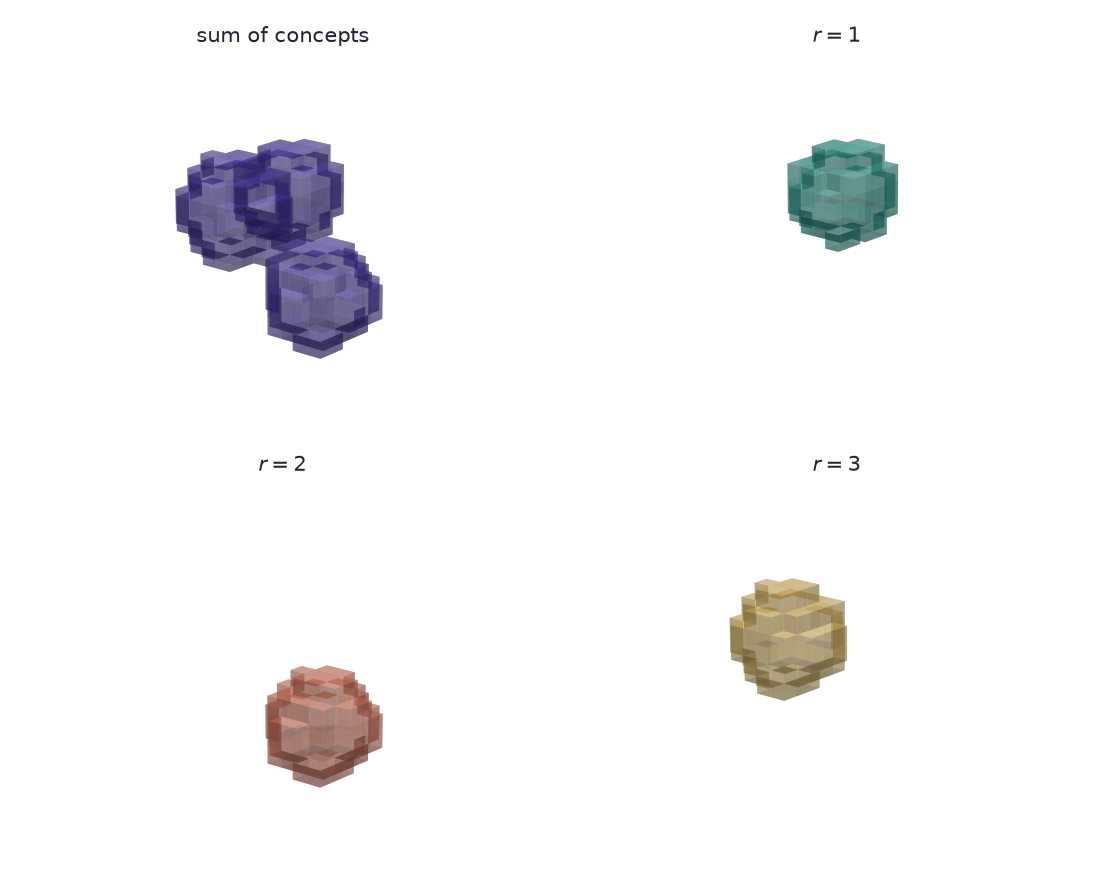
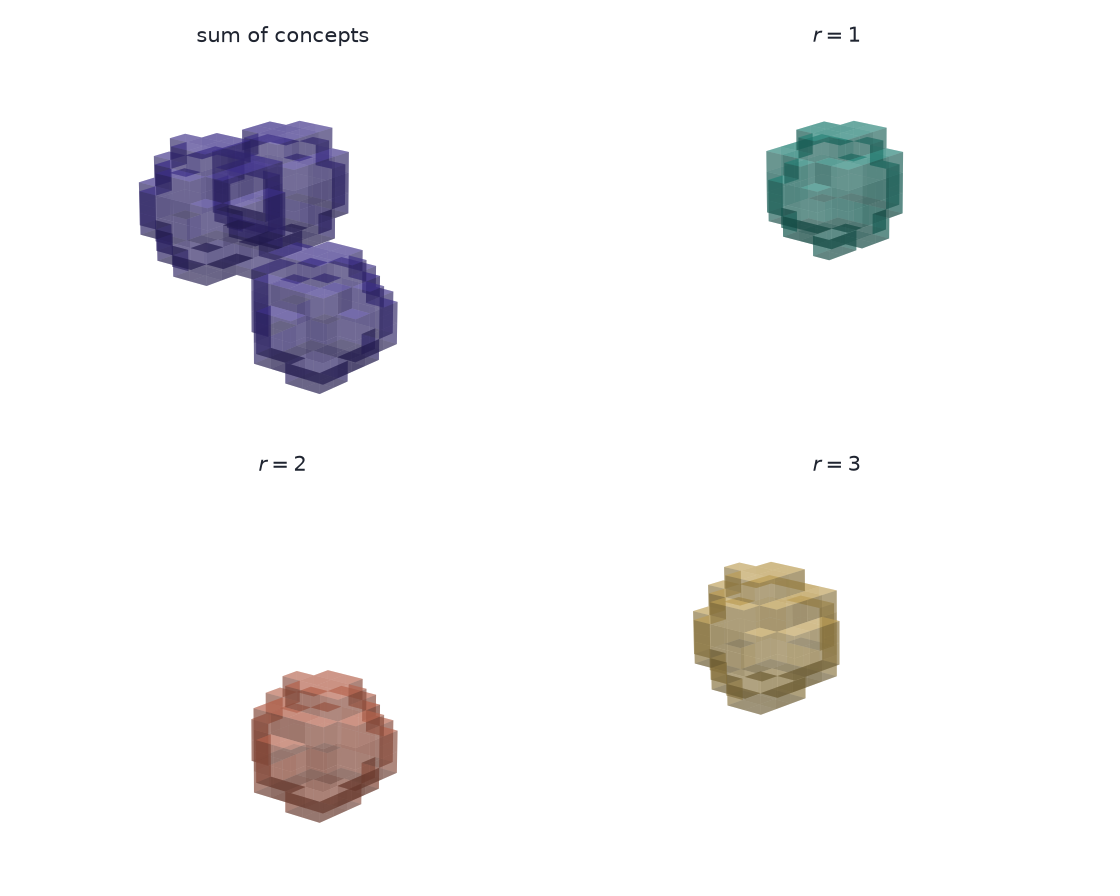
fix(posts): make the CP/Tucker figures match their captions
The review on #232 caught the Tucker still inflating its core by 1.6x
per mode, so a 4x4x3 core of a 12-cube rendered at roughly 1:7 against
the caption's 1:36 — understating the one quantity that figure exists
to show. It also caught two captions arguing with their own images and
a CP storage count that dropped the lambda weights.

- Draw the core at true scale, and measure the mode labels from the box
  that was drawn rather than from the axes limits, so a small core keeps
  its labels on its own edges.
- Frame the voxel panels on the lit cells and raise the 3D zoom; the
  blobs were about 150 px in a 1120 px image.
- Say the CP weights are scaled into a factor, not stored.
- Stop the film caption denying the shrink the animation performs, and
  stop the Figure data bullet claiming corners the caption contradicts.
- Say where Kruskal's condition actually bites: generic factors have
  full k-rank, so for R <= min(I,J,K) it holds for every R >= 2.
- Promote Figure data out of "The two arrays" — it covers all five
  images — and drop the constraint bullet that restated it.

diff --git a/docs/posts/cp-or-tucker/index.html b/docs/posts/cp-or-tucker/index.html
@@ -191,24 +191,22 @@ window.Quarto = {
     <h2 id="toc-title">On this page</h2>
    
   <ul>
-  <li><a href="#the-two-arrays" id="toc-the-two-arrays" class="nav-link active" data-scroll-target="#the-two-arrays"><span class="header-section-number">1</span> The two arrays</a>
+  <li><a href="#the-two-arrays" id="toc-the-two-arrays" class="nav-link active" data-scroll-target="#the-two-arrays"><span class="header-section-number">1</span> The two arrays</a></li>
+  <li><a href="#figure-data" id="toc-figure-data" class="nav-link" data-scroll-target="#figure-data"><span class="header-section-number">2</span> Figure data</a></li>
+  <li><a href="#notation" id="toc-notation" class="nav-link" data-scroll-target="#notation"><span class="header-section-number">3</span> Notation</a></li>
+  <li><a href="#cp" id="toc-cp" class="nav-link" data-scroll-target="#cp"><span class="header-section-number">4</span> CP</a>
   <ul class="collapse">
-  <li><a href="#figure-data" id="toc-figure-data" class="nav-link" data-scroll-target="#figure-data"><span class="header-section-number">1.1</span> Figure data</a></li>
+  <li><a href="#uniqueness" id="toc-uniqueness" class="nav-link" data-scroll-target="#uniqueness"><span class="header-section-number">4.1</span> Uniqueness</a></li>
+  <li><a href="#storage" id="toc-storage" class="nav-link" data-scroll-target="#storage"><span class="header-section-number">4.2</span> Storage</a></li>
   </ul></li>
-  <li><a href="#notation" id="toc-notation" class="nav-link" data-scroll-target="#notation"><span class="header-section-number">2</span> Notation</a></li>
-  <li><a href="#cp" id="toc-cp" class="nav-link" data-scroll-target="#cp"><span class="header-section-number">3</span> CP</a>
+  <li><a href="#tucker" id="toc-tucker" class="nav-link" data-scroll-target="#tucker"><span class="header-section-number">5</span> Tucker</a>
   <ul class="collapse">
-  <li><a href="#uniqueness" id="toc-uniqueness" class="nav-link" data-scroll-target="#uniqueness"><span class="header-section-number">3.1</span> Uniqueness</a></li>
-  <li><a href="#storage" id="toc-storage" class="nav-link" data-scroll-target="#storage"><span class="header-section-number">3.2</span> Storage</a></li>
+  <li><a href="#rotational-freedom" id="toc-rotational-freedom" class="nav-link" data-scroll-target="#rotational-freedom"><span class="header-section-number">5.1</span> Rotational freedom</a></li>
+  <li><a href="#storage-1" id="toc-storage-1" class="nav-link" data-scroll-target="#storage-1"><span class="header-section-number">5.2</span> Storage</a></li>
   </ul></li>
-  <li><a href="#tucker" id="toc-tucker" class="nav-link" data-scroll-target="#tucker"><span class="header-section-number">4</span> Tucker</a>
-  <ul class="collapse">
-  <li><a href="#rotational-freedom" id="toc-rotational-freedom" class="nav-link" data-scroll-target="#rotational-freedom"><span class="header-section-number">4.1</span> Rotational freedom</a></li>
-  <li><a href="#storage-1" id="toc-storage-1" class="nav-link" data-scroll-target="#storage-1"><span class="header-section-number">4.2</span> Storage</a></li>
-  </ul></li>
-  <li><a href="#choosing" id="toc-choosing" class="nav-link" data-scroll-target="#choosing"><span class="header-section-number">5</span> Choosing</a></li>
-  <li><a href="#constraints" id="toc-constraints" class="nav-link" data-scroll-target="#constraints"><span class="header-section-number">6</span> Constraints</a></li>
-  <li><a href="#references" id="toc-references" class="nav-link" data-scroll-target="#references"><span class="header-section-number">7</span> References</a></li>
+  <li><a href="#choosing" id="toc-choosing" class="nav-link" data-scroll-target="#choosing"><span class="header-section-number">6</span> Choosing</a></li>
+  <li><a href="#constraints" id="toc-constraints" class="nav-link" data-scroll-target="#constraints"><span class="header-section-number">7</span> Constraints</a></li>
+  <li><a href="#references" id="toc-references" class="nav-link" data-scroll-target="#references"><span class="header-section-number">8</span> References</a></li>
   </ul>
 <div class="toc-actions"><ul><li><a href="https://github.com/project-delphi/ml-blog/edit/main/posts/cp-or-tucker/index.qmd" class="toc-action"><i class="bi bi-github"></i>Edit this page</a></li></ul></div></nav>
     </div>
@@ -239,21 +237,21 @@ window.Quarto = {
 <figcaption>A three-way array. Each axis is a mode, and no two modes are interchangeable.</figcaption>
 </figure>
 </div>
-<section id="figure-data" class="level3" data-number="1.1">
-<h3 data-number="1.1" class="anchored" data-anchor-id="figure-data"><span class="header-section-number">1.1</span> Figure data</h3>
+</section>
+<section id="figure-data" class="level2" data-number="2">
+<h2 data-number="2" class="anchored" data-anchor-id="figure-data"><span class="header-section-number">2</span> Figure data</h2>
 <p>The volumes in the figures are synthetic and no decomposition is fitted to them.</p>
 <ul>
 <li>The three CP components are outer products of Gaussian bumps on a <span class="math inline">\(12\times 12\times
-12\)</span> grid, each centred in a different corner, so a component reads as one blob. They stand in for concepts recovered from a ratings cube, which is far too large and too sparse to draw.</li>
+12\)</span> grid, each centred somewhere else in it, so a component reads as one blob. They stand in for concepts recovered from a ratings cube, which is far too large and too sparse to draw.</li>
 <li>The Tucker figure is a layout: a full cube, a small core, and three random <span class="math inline">\(12\times R_n\)</span> heatmaps standing in for factor matrices. It is not a fit of the CP volumes.</li>
 <li>The rotating cubes are labelled boxes, not data at all.</li>
 <li><code>src/make_cubes.py</code> writes all five images. The page has no executable cells.</li>
 </ul>
 <p>Which decomposition answers which question is settled by the algebra, so a MovieLens-shaped table or a public-domain film clip would not change the answer. What the compression costs does need measured data, and is measured in <a href="../uses-of-tensor-factorizations/">Uses of Tensor Factorizations</a>.</p>
 </section>
-</section>
-<section id="notation" class="level2" data-number="2">
-<h2 data-number="2" class="anchored" data-anchor-id="notation"><span class="header-section-number">2</span> Notation</h2>
+<section id="notation" class="level2" data-number="3">
+<h2 data-number="3" class="anchored" data-anchor-id="notation"><span class="header-section-number">3</span> Notation</h2>
 <p>For a three-way <span class="math inline">\(\mathcal{X}\in\mathbb{R}^{I\times J\times K}\)</span>:</p>
 <ul>
 <li><strong>Mode.</strong> One axis. Mode 1 has length <span class="math inline">\(I\)</span>, mode 2 has length <span class="math inline">\(J\)</span>, mode 3 has length <span class="math inline">\(K\)</span>.</li>
@@ -262,8 +260,8 @@ window.Quarto = {
 <li><strong>Mode-<span class="math inline">\(n\)</span> unfolding.</strong> <span class="math inline">\(\mathcal{X}_{(n)}\)</span>, the matrix whose columns are the mode-<span class="math inline">\(n\)</span> fibers.</li>
 </ul>
 </section>
-<section id="cp" class="level2" data-number="3">
-<h2 data-number="3" class="anchored" data-anchor-id="cp"><span class="header-section-number">3</span> CP</h2>
+<section id="cp" class="level2" data-number="4">
+<h2 data-number="4" class="anchored" data-anchor-id="cp"><span class="header-section-number">4</span> CP</h2>
 <p>CP — CANDECOMP/PARAFAC — writes the array as a sum of <span class="math inline">\(R\)</span> rank-1 terms:</p>
 <p><span class="math display">\[
 \mathcal{X} \approx \sum_{r=1}^{R} \lambda_r\, a_r \circ b_r \circ c_r .
@@ -272,11 +270,11 @@ window.Quarto = {
 <div class="quarto-figure quarto-figure-center">
 <figure class="figure">
 <p><img src="./fig-cp.png" class="img-fluid figure-img"></p>
-<figcaption>Three rank-1 terms and the array they add up to. Each term is an outer product of three Gaussian bumps, so it occupies one corner of the cube. Two of the three sit close enough to merge into one lump in the sum: separating them takes a decomposition, not a threshold.</figcaption>
+<figcaption>Three rank-1 terms and the array they add up to. Each term is an outer product of three Gaussian bumps, so it occupies one compact region. Two of the three sit close enough to merge into one lump in the sum: separating them takes a decomposition, not a threshold.</figcaption>
 </figure>
 </div>
-<section id="uniqueness" class="level3" data-number="3.1">
-<h3 data-number="3.1" class="anchored" data-anchor-id="uniqueness"><span class="header-section-number">3.1</span> Uniqueness</h3>
+<section id="uniqueness" class="level3" data-number="4.1">
+<h3 data-number="4.1" class="anchored" data-anchor-id="uniqueness"><span class="header-section-number">4.1</span> Uniqueness</h3>
 <p>CP’s value is that the triples are pinned down. Write <span class="math inline">\(k_A\)</span> for the <strong>k-rank</strong> of the factor matrix <span class="math inline">\(A\)</span> — the largest <span class="math inline">\(k\)</span> such that every <span class="math inline">\(k\)</span> columns of <span class="math inline">\(A\)</span> are linearly independent. Kruskal’s condition is</p>
 <p><span class="math display">\[
 k_A + k_B + k_C \ \ge\ 2R + 2 .
@@ -284,13 +282,13 @@ k_A + k_B + k_C \ \ge\ 2R + 2 .
 <p>When it holds, the rank-<span class="math inline">\(R\)</span> CP decomposition is unique up to permuting the <span class="math inline">\(R\)</span> terms and rescaling the three vectors inside a term against each other. No rotation is available. That is why a CP component survives being given a name: a second analyst fitting the same array recovers the same triples in a different order.</p>
 <p>Matrix factorization has no such property. <span class="math inline">\(AB^\top = (AQ)(BQ^{-\top})^\top\)</span> for any invertible <span class="math inline">\(Q\)</span>, so PCA needs an extra rule — maximise variance, or rotate to a varimax criterion — before a component means anything. The third mode is what makes that rule unnecessary.</p>
 </section>
-<section id="storage" class="level3" data-number="3.2">
-<h3 data-number="3.2" class="anchored" data-anchor-id="storage"><span class="header-section-number">3.2</span> Storage</h3>
-<p><span class="math inline">\(R\)</span> components on an <span class="math inline">\(I\times J\times K\)</span> array need <span class="math inline">\(R(I+J+K)\)</span> numbers. At <span class="math inline">\(R=3\)</span> on <span class="math inline">\(12\times 12\times 12\)</span> that is 108 against the dense 1728.</p>
+<section id="storage" class="level3" data-number="4.2">
+<h3 data-number="4.2" class="anchored" data-anchor-id="storage"><span class="header-section-number">4.2</span> Storage</h3>
+<p><span class="math inline">\(R\)</span> components on an <span class="math inline">\(I\times J\times K\)</span> array need <span class="math inline">\(R(I+J+K)\)</span> numbers, with each <span class="math inline">\(\lambda_r\)</span> scaled into one of its own three vectors rather than stored. At <span class="math inline">\(R=3\)</span> on <span class="math inline">\(12\times 12\times 12\)</span> that is 108 against the dense 1728.</p>
 </section>
 </section>
-<section id="tucker" class="level2" data-number="4">
-<h2 data-number="4" class="anchored" data-anchor-id="tucker"><span class="header-section-number">4</span> Tucker</h2>
+<section id="tucker" class="level2" data-number="5">
+<h2 data-number="5" class="anchored" data-anchor-id="tucker"><span class="header-section-number">5</span> Tucker</h2>
 <p>Tucker compresses each mode against its own budget:</p>
 <p><span class="math display">\[
 \mathcal{X} \approx \mathcal{G} \times_1 U \times_2 V \times_3 W,
@@ -309,11 +307,11 @@ k_A + k_B + k_C \ \ge\ 2R + 2 .
 <div class="quarto-figure quarto-figure-center">
 <figure class="figure">
 <p><img src="./cube-film.gif" class="img-fluid figure-img"></p>
-<figcaption>The picture modes shrink; the colour mode has three slices and keeps them. The core is a new object in rank coordinates, not the original cube made smaller.</figcaption>
+<figcaption>Each picture mode gives up most of its length while the colour mode, three slices deep, keeps all three. The shrunk box is the core: the relabel to <span class="math inline">\(R_1,R_2,R_3\)</span> marks where its axes stop counting pixels and start counting components.</figcaption>
 </figure>
 </div>
-<section id="rotational-freedom" class="level3" data-number="4.1">
-<h3 data-number="4.1" class="anchored" data-anchor-id="rotational-freedom"><span class="header-section-number">4.1</span> Rotational freedom</h3>
+<section id="rotational-freedom" class="level3" data-number="5.1">
+<h3 data-number="5.1" class="anchored" data-anchor-id="rotational-freedom"><span class="header-section-number">5.1</span> Rotational freedom</h3>
 <p>For any invertible <span class="math inline">\(Q\in\mathbb{R}^{R_1\times R_1}\)</span>,</p>
 <p><span class="math display">\[
 \mathcal{G} \times_1 U
@@ -322,25 +320,25 @@ k_A + k_B + k_C \ \ge\ 2R + 2 .
 <p>and the same holds in modes 2 and 3. The fit does not change. Requiring orthonormal columns, as the higher-order SVD does, narrows <span class="math inline">\(Q\)</span> to an orthogonal matrix but does not remove it: the factors are a basis for a subspace, and the subspace is what Tucker identifies.</p>
 <p>Truncated HOSVD is the cheap non-iterative way to get that basis: take the SVD of each unfolding and keep <span class="math inline">\(R_n\)</span> left singular vectors. It is not the best multilinear-rank-<span class="math inline">\((R_1,R_2,R_3)\)</span> approximation, but for an <span class="math inline">\(N\)</span>-way array its error is within <span class="math inline">\(\sqrt{N}\)</span> of the best one. That is close enough to start an iterative fit from.</p>
 </section>
-<section id="storage-1" class="level3" data-number="4.2">
-<h3 data-number="4.2" class="anchored" data-anchor-id="storage-1"><span class="header-section-number">4.2</span> Storage</h3>
+<section id="storage-1" class="level3" data-number="5.2">
+<h3 data-number="5.2" class="anchored" data-anchor-id="storage-1"><span class="header-section-number">5.2</span> Storage</h3>
 <p><span class="math inline">\(R_1R_2R_3 + IR_1 + JR_2 + KR_3\)</span> numbers. At <span class="math inline">\((4,4,3)\)</span> on <span class="math inline">\(12\times 12\times 12\)</span> that is <span class="math inline">\(48 + 48 + 48 + 36 = 180\)</span>, against the dense 1728.</p>
 <p>Two parameter counts on one toy array settle nothing: 108 for CP at <span class="math inline">\(R=3\)</span> and 180 for Tucker at <span class="math inline">\((4,4,3)\)</span> compare two models that fit the array to different accuracies. Storage separates the two only at fixed error, and at fixed error the winner depends on whether the array really is a short sum of rank-1 terms.</p>
 </section>
 </section>
-<section id="choosing" class="level2" data-number="5">
-<h2 data-number="5" class="anchored" data-anchor-id="choosing"><span class="header-section-number">5</span> Choosing</h2>
+<section id="choosing" class="level2" data-number="6">
+<h2 data-number="6" class="anchored" data-anchor-id="choosing"><span class="header-section-number">6</span> Choosing</h2>
 <p>The question decides:</p>
 <ul>
-<li><strong>“What are the parts, and what do they mean?”</strong> CP. Check Kruskal’s condition on the fitted factors before reading anything out of them; a CP fit whose k-ranks fail it is as rotatable as a matrix factorization.</li>
+<li><strong>“What are the parts, and what do they mean?”</strong> CP — but check where Kruskal’s condition actually bites before leaning on it. Generic factors have full k-rank, so for <span class="math inline">\(R \le \min(I,J,K)\)</span> it reduces to <span class="math inline">\(3R \ge 2R+2\)</span> and holds for every <span class="math inline">\(R \ge 2\)</span>. It bites when <span class="math inline">\(R\)</span> exceeds a mode’s length, and when a fit returns near-collinear columns, whose k-rank is numerically lower than the exact arithmetic says.</li>
 <li><strong>“How few numbers can stand in for this?”</strong> Tucker. The per-mode budget is the feature — spend where the array has structure, and leave a short mode alone.</li>
 <li><strong>“Which modes carry the variation?”</strong> Tucker, read as multilinear rank. The three unfolding ranks answer directly, and the factors need no interpretation to do it.</li>
 <li><strong>“How many components are there?”</strong> Neither, not directly. Determining tensor rank is NP-hard, so <span class="math inline">\(R\)</span> is chosen by fitting a range and watching the residual and the stability of the factors across restarts.</li>
 </ul>
 <p>A useful order when both are on the table: fit Tucker first, because it always has a best fit and gives the multilinear rank cheaply, then fit CP inside the compressed core if the components are going to be read.</p>
 </section>
-<section id="constraints" class="level2" data-number="6">
-<h2 data-number="6" class="anchored" data-anchor-id="constraints"><span class="header-section-number">6</span> Constraints</h2>
+<section id="constraints" class="level2" data-number="7">
+<h2 data-number="7" class="anchored" data-anchor-id="constraints"><span class="header-section-number">7</span> Constraints</h2>
 <p>CP:</p>
 <ul>
 <li>A best rank-<span class="math inline">\(R\)</span> approximation need not exist for <span class="math inline">\(R \ge 2\)</span>. The infimum can be approached by factors that grow without bound and cancel — the ALS iterates diverge while the residual keeps falling. Rising factor norms are the tell.</li>
@@ -352,14 +350,10 @@ k_A + k_B + k_C \ \ge\ 2R + 2 .
 <li>The core is <span class="math inline">\(\prod_n R_n\)</span>, exponential in the number of modes. At eight modes with <span class="math inline">\(R_n = 10\)</span> the core alone is <span class="math inline">\(10^8\)</span> numbers. Tensor train exists to avoid that.</li>
 <li>The factors are bases. A heatmap of <span class="math inline">\(U\)</span> is not a picture of concepts, and reading it as one is the mistake CP exists to prevent.</li>
 </ul>
-<p>Both:</p>
-<ul>
-<li>Every figure here is a schematic. The rank-1 volumes are drawn, not fitted, and the Tucker figure is a layout rather than a decomposition of the CP volumes.</li>
-</ul>
 <p>Uniqueness. Or. Compression. CP. Names. Parts. Tucker. Spends. Budget. Ask. First.</p>
 </section>
-<section id="references" class="level2" data-number="7">
-<h2 data-number="7" class="anchored" data-anchor-id="references"><span class="header-section-number">7</span> References</h2>
+<section id="references" class="level2" data-number="8">
+<h2 data-number="8" class="anchored" data-anchor-id="references"><span class="header-section-number">8</span> References</h2>
 <ul>
 <li>Kolda, T. G., and Bader, B. W. (2009). <a href="https://doi.org/10.1137/07070111X">Tensor decompositions and applications</a>. <em>SIAM Review</em> 51(3). The survey both models are usually cited from.</li>
 <li>Kruskal, J. B. (1977). <a href="https://doi.org/10.1016/0024-3795(77)90069-6">Three-way arrays: rank and uniqueness of trilinear decompositions</a>. <em>Linear Algebra and its Applications</em> 18(2). The k-rank condition.</li>

diff --git a/docs/index.html b/docs/index.html
@@ -226,7 +226,7 @@ Reading Time
 </tr>
 </thead>
 <tbody class="list">
[2 lines of base64/hex data omitted]
 <td>
 <span class="listing-image"><img loading="lazy" src="./posts/cp-or-tucker/cover.png" style="height: 40px;"></span>
 </td>
@@ -237,7 +237,7 @@ Reading Time
 <a href="./posts/cp-or-tucker/index.html" class="title listing-title">CP or Tucker</a>
 </td>
 <td>
-<span class="listing-reading-time">8 min</span>
+<span class="listing-reading-time">9 min</span>
 </td>
 </tr>
[1 lines of base64/hex data omitted]

diff --git a/posts/cp-or-tucker/src/make_cubes.py b/posts/cp-or-tucker/src/make_cubes.py
@@ -114,21 +114,47 @@ def _draw_solid_cube(ax, origin, size, color, alpha: float = 0.92) -> None:
     ax.add_collection3d(coll)
 
 
-def _axis_frame(ax, labels: tuple[str, str, str], lim: float = 1.35) -> None:
+def _axis_frame(
+    ax,
+    labels: tuple[str, str, str],
+    lim: float = 1.35,
+    origin: np.ndarray | None = None,
+    size: np.ndarray | None = None,
+) -> None:
+    """Label the three modes of the box that was just drawn.
+
+    The offsets are measured from that box, not from the axes limits, so a
+    small core keeps its labels against its own edges instead of floating a
+    core-width away from the thing they name.
+    """
     ax.set_xlim(0, lim)
     ax.set_ylim(0, lim)
     ax.set_zlim(0, lim)
     ax.set_box_aspect((1, 1, 1), zoom=0.92)
     ax.set_axis_off()
+    lo = np.zeros(3) if origin is None else np.asarray(origin, dtype=float)
+    ext = np.ones(3) if size is None else np.asarray(size, dtype=float)
+    hi = lo + ext
+    mid = lo + 0.5 * ext
+    pad = 0.20 * lim
     # Hang the labels off the corner nearest the camera. Placed on the far side
     # they project onto the faces, and matplotlib draws text over a
     # Poly3DCollection regardless of depth, so "Month" lands on the cube's lid.
-    ax.text(0.5, 1.26, -0.12, labels[0], ha="center", fontsize=11, color=INK)
-    ax.text(1.26, 0.5, -0.12, labels[1], ha="center", fontsize=11, color=INK)
+    drop = lo[2] - 0.10 * lim
+    ax.text(mid[0], hi[1] + pad, drop, labels[0], ha="center", fontsize=11, color=INK)
+    ax.text(hi[0] + pad, mid[1], drop, labels[1], ha="center", fontsize=11, color=INK)
     # The vertical label goes beside the right-hand silhouette edge. On the near
     # corner it would sit on the cube: that corner's outward direction points at
     # the camera, so pushing it out moves it nowhere on screen.
-    ax.text(-0.14, 1.34, 0.52, labels[2], ha="center", fontsize=11, color=INK)
+    ax.text(
+        lo[0] - 0.12 * lim,
+        hi[1] + pad,
+        mid[2],
+        labels[2],
+        ha="center",
+        fontsize=11,
+        color=INK,
+    )
 
 
 def _cube_frame(
@@ -144,7 +170,7 @@ def _cube_frame(
     size = np.broadcast_to(np.asarray(scale, dtype=float), (3,)).copy()
     origin = (1.0 - size) * 0.5
     _draw_solid_cube(ax, origin, size, color)
-    _axis_frame(ax, labels)
+    _axis_frame(ax, labels, origin=origin, size=size)
     ax.view_init(elev=18, azim=azim)
     if title:
         ax.set_title(title, fontsize=12, pad=4, color=INK)
@@ -215,7 +241,30 @@ def _rank1(n: int, centres: tuple[float, float, float], width: float) -> np.ndar
     return a[:, None, None] * b[None, :, None] * c[None, None, :]
 
 
-def _draw_voxels(ax, vol: np.ndarray, color: str, thresh: float = 0.18) -> None:
+def _occupied_bounds(vol: np.ndarray, thresh: float = 0.18, pad: int = 1) -> tuple:
+    """Smallest cube-shaped window holding every lit voxel.
+
+    The bumps fill about half of the 0..12 grid, so framing on the grid leaves
+    the panels mostly white and the blobs tiny once the figure is scaled into
+    the text column. One window is shared by every panel, or the terms would
+    move between the sum and their own panels.
+    """
+    mag = np.abs(vol)
+    idx = np.argwhere(mag > thresh * (mag.max() + 1e-12))
+    lo = idx.min(axis=0) - pad
+    hi = idx.max(axis=0) + 1 + pad
+    side = float(np.max(hi - lo))
+    centre = 0.5 * (lo + hi)
+    return centre - 0.5 * side, centre + 0.5 * side
+
+
+def _draw_voxels(
+    ax,
+    vol: np.ndarray,
+    color: str,
+    thresh: float = 0.18,
+    bounds: tuple | None = None,
+) -> None:
     mag = np.abs(vol)
     peak = mag.max() + 1e-12
     filled = mag > thresh * peak
@@ -224,11 +273,14 @@ def _draw_voxels(ax, vol: np.ndarray, color: str, thresh: float = 0.18) -> None:
     fc[..., 0], fc[..., 1], fc[..., 2] = rgb
     fc[..., 3] = np.where(filled, 0.28 + 0.65 * mag / peak, 0.0)
     ax.voxels(filled, facecolors=fc, edgecolor="none")
-    box = vol.shape[0]
-    ax.set_xlim(0, box)
-    ax.set_ylim(0, box)
-    ax.set_zlim(0, box)
-    ax.set_box_aspect((1, 1, 1), zoom=0.88)
+    lo, hi = bounds if bounds is not None else (np.zeros(3), np.array(vol.shape))
+    ax.set_xlim(lo[0], hi[0])
+    ax.set_ylim(lo[1], hi[1])
+    ax.set_zlim(lo[2], hi[2])
+    # The three terms sit in different corners, so their shared window is most
+    # of the grid; the remaining whitespace is the 3D axes margin, and zoom is
+    # what removes it.
+    ax.set_box_aspect((1, 1, 1), zoom=1.28)
     ax.set_axis_off()
     ax.view_init(elev=18, azim=40)
 
@@ -245,6 +297,7 @@ def write_cp_png(path: Path) -> Path:
     specs = CP_SPECS
     terms = [_rank1(n, c, 0.28) for c, _ in specs]
     total = sum(terms)
+    bounds = _occupied_bounds(total)
     panels = [(total, ACCENT, r"sum of concepts")] + [
         (vol, color, rf"$r={i}$")
         for i, (vol, (_, color)) in enumerate(zip(terms, specs), start=1)
@@ -261,7 +314,7 @@ def write_cp_png(path: Path) -> Path:
     fig.patch.set_facecolor(PAPER)
     for ax, (vol, color, title) in zip(axes.ravel(), panels):
         ax.set_facecolor(PAPER)
-        _draw_voxels(ax, vol, color)
+        _draw_voxels(ax, vol, color, bounds=bounds)
         ax.set_title(title, fontsize=11, pad=6, color=INK)
     fig.subplots_adjust(
         left=0.01,
@@ -305,13 +358,22 @@ def write_tucker_png(path: Path) -> Path:
     ax_x.set_facecolor(PAPER)
     ax_g.set_facecolor(PAPER)
     _draw_solid_cube(ax_x, np.zeros(3), np.ones(3), ACCENT)
-    _axis_frame(ax_x, ("$I$", "$J$", "$K$"), lim=1.15)
+    _axis_frame(ax_x, ("$I$", "$J$", "$K$"), lim=1.15, size=np.ones(3))
     ax_x.view_init(elev=18, azim=40)
     ax_x.set_title(r"$\mathcal{X}$", fontsize=12, pad=6)
-    g_origin = np.array([0.05, 0.05, 0.05])
-    g_size = np.array([r1 / n, r2 / n, r3 / n]) * 1.6
+    g_origin = np.zeros(3)
+    # True scale against the unit cube beside it: a 4x4x3 core of a 12-cube is
+    # 1/36 of the volume, and inflating it to fit the eye would understate what
+    # Tucker saves — the one number this figure exists to show.
+    g_size = np.array([r1 / n, r2 / n, r3 / n])
     _draw_solid_cube(ax_g, g_origin, g_size, TEAL)
-    _axis_frame(ax_g, (r"$R_1$", r"$R_2$", r"$R_3$"), lim=1.15)
+    _axis_frame(
+        ax_g,
+        (r"$R_1$", r"$R_2$", r"$R_3$"),
+        lim=1.15,
+        origin=g_origin,
+        size=g_size,
+    )
     ax_g.view_init(elev=18, azim=40)
     ax_g.set_title(r"core $\mathcal{G}$", fontsize=12, pad=6)
     names = (r"$U$", r"$V$", r"$W$")
@@ -342,8 +404,9 @@ def write_cover_png(path: Path) -> Path:
     ax_tk = fig.add_subplot(122, projection="3d")
 
     ax_cp.set_facecolor(PAPER)
+    bounds = _occupied_bounds(sum(_rank1(n, c, 0.28) for c, _ in CP_SPECS))
     for centres, color in CP_SPECS:
-        _draw_voxels(ax_cp, _rank1(n, centres, 0.28), color)
+        _draw_voxels(ax_cp, _rank1(n, centres, 0.28), color, bounds=bounds)
     ax_cp.set_box_aspect((1, 1, 1), zoom=1.15)
     ax_cp.set_title(
         r"CP: $\sum_r a_r \circ b_r \circ c_r$",
